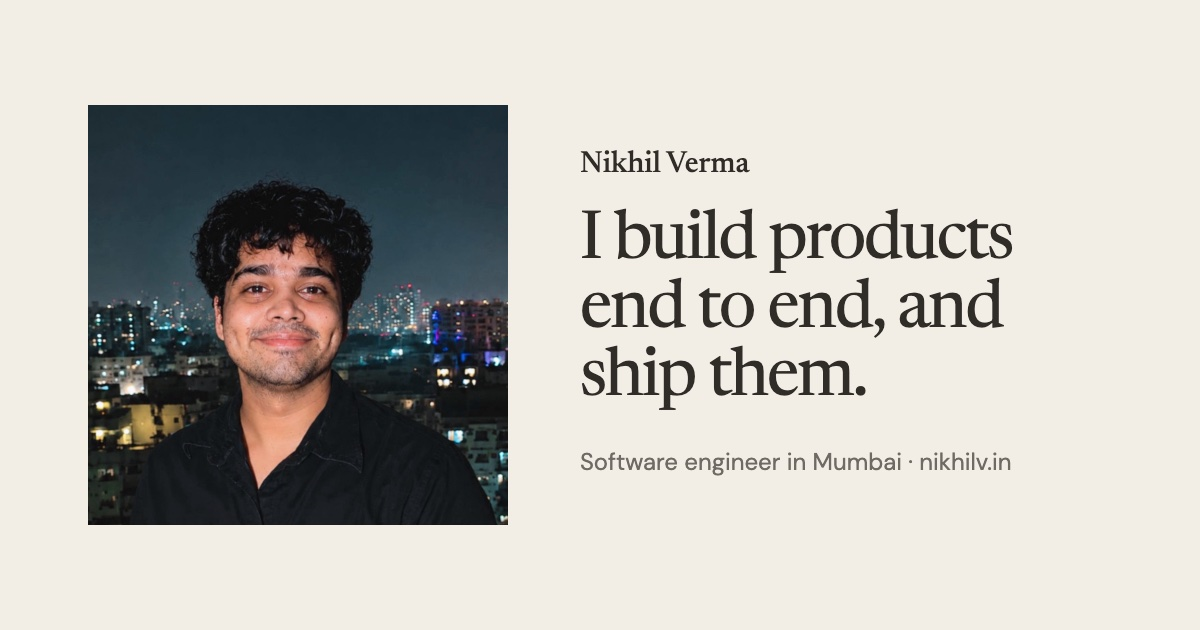
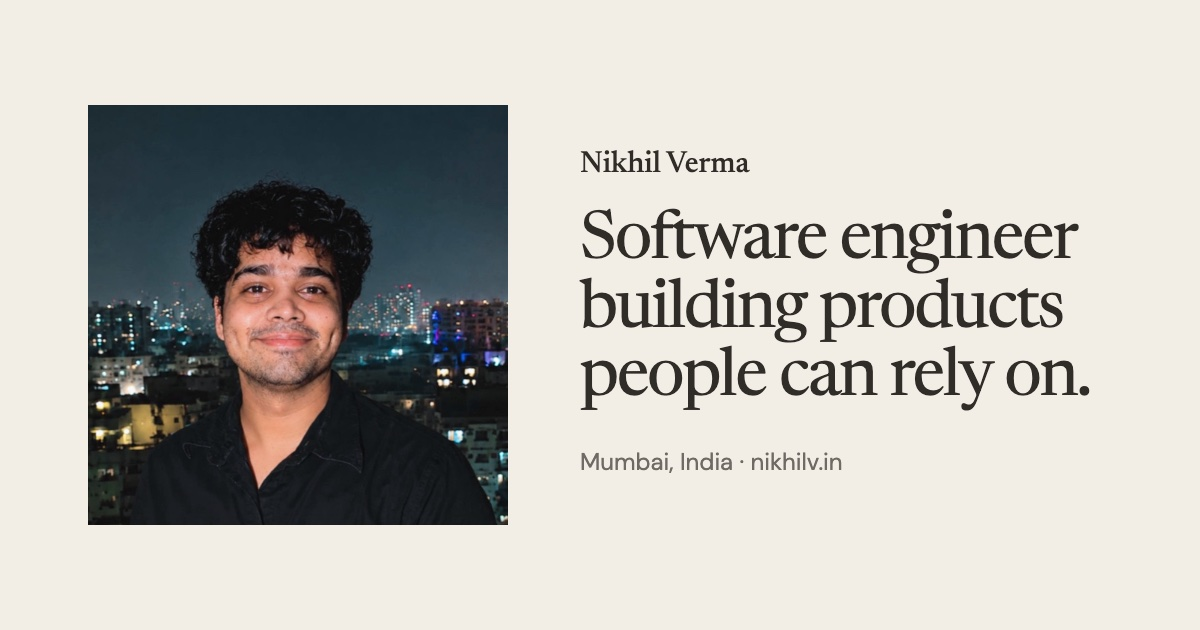
Update headline

Changed region(s): [[0.4625, 0.3317, 0.925, 0.6635], [0.4625, 0.7238, 0.8633, 0.754]]

diff --git a/index.html b/index.html
@@ -420,8 +420,8 @@
     <section class="hero" data-chapter="top">
       <img class="portrait" src="nikhil-verma.jpg" fetchpriority="high" decoding="async" alt="Nikhil Verma on a rooftop in Mumbai at night" width="720" height="720">
       <div class="prose">
-        <h1>I build products end to end, and ship them.</h1>
-        <p>I’m Nikhil Verma, a software engineer in Mumbai. I like taking an idea the whole way: understanding the problem, building the system behind it, and caring about how it feels to the person on the other side.</p>
+        <h1>Software engineer building products people can rely on.</h1>
+        <p>I’m Nikhil Verma, and I’m based in Mumbai. I like taking an idea the whole way: understanding the problem, building the system behind it, and caring about how it feels to the person on the other side.</p>
         <p>Right now that’s <a href="#trailgrad">Trailgrad</a>, a place for engineers to prepare for interviews. Before that, I spent two years at <a href="#experience">Flashaid</a>, working on payments and insurance.</p>
         <div class="link-row">
           <a class="arrow-link" href="#trailgrad">View my work <span class="arr">↗</span></a>
